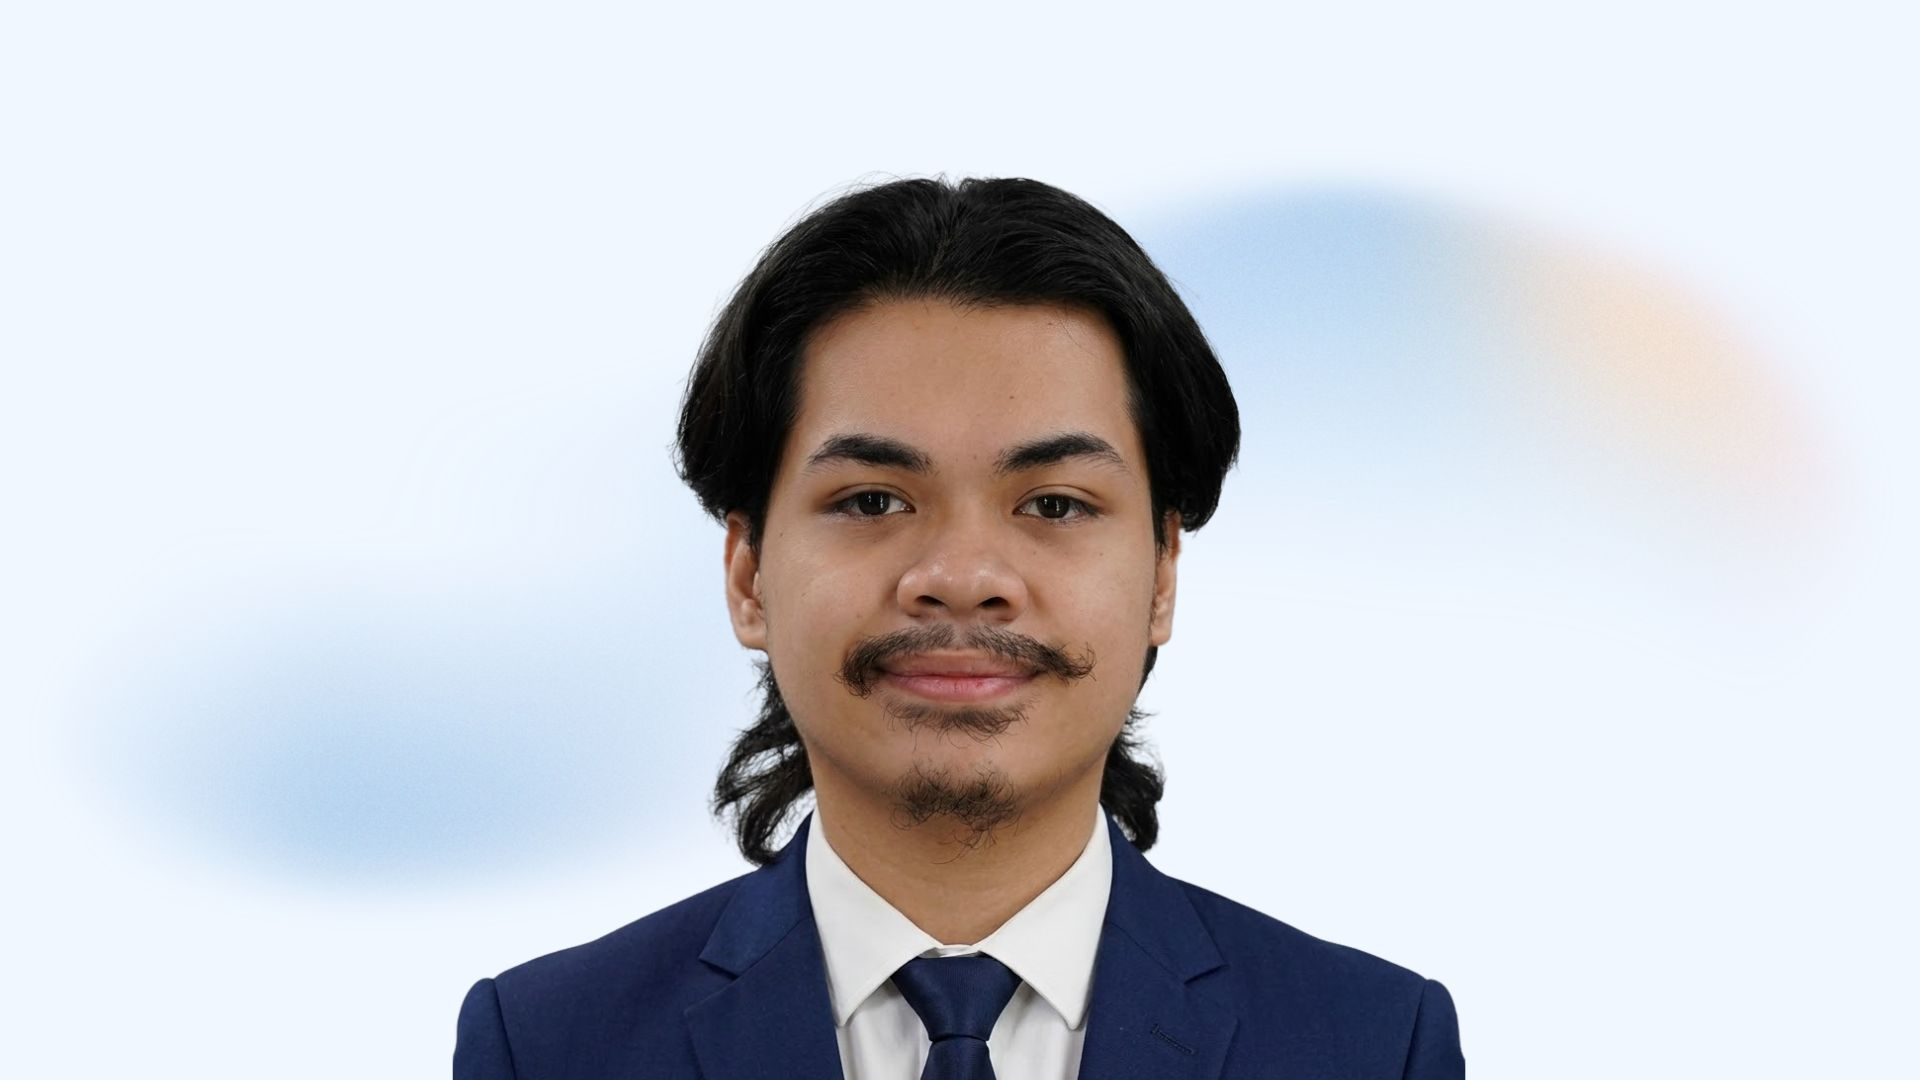
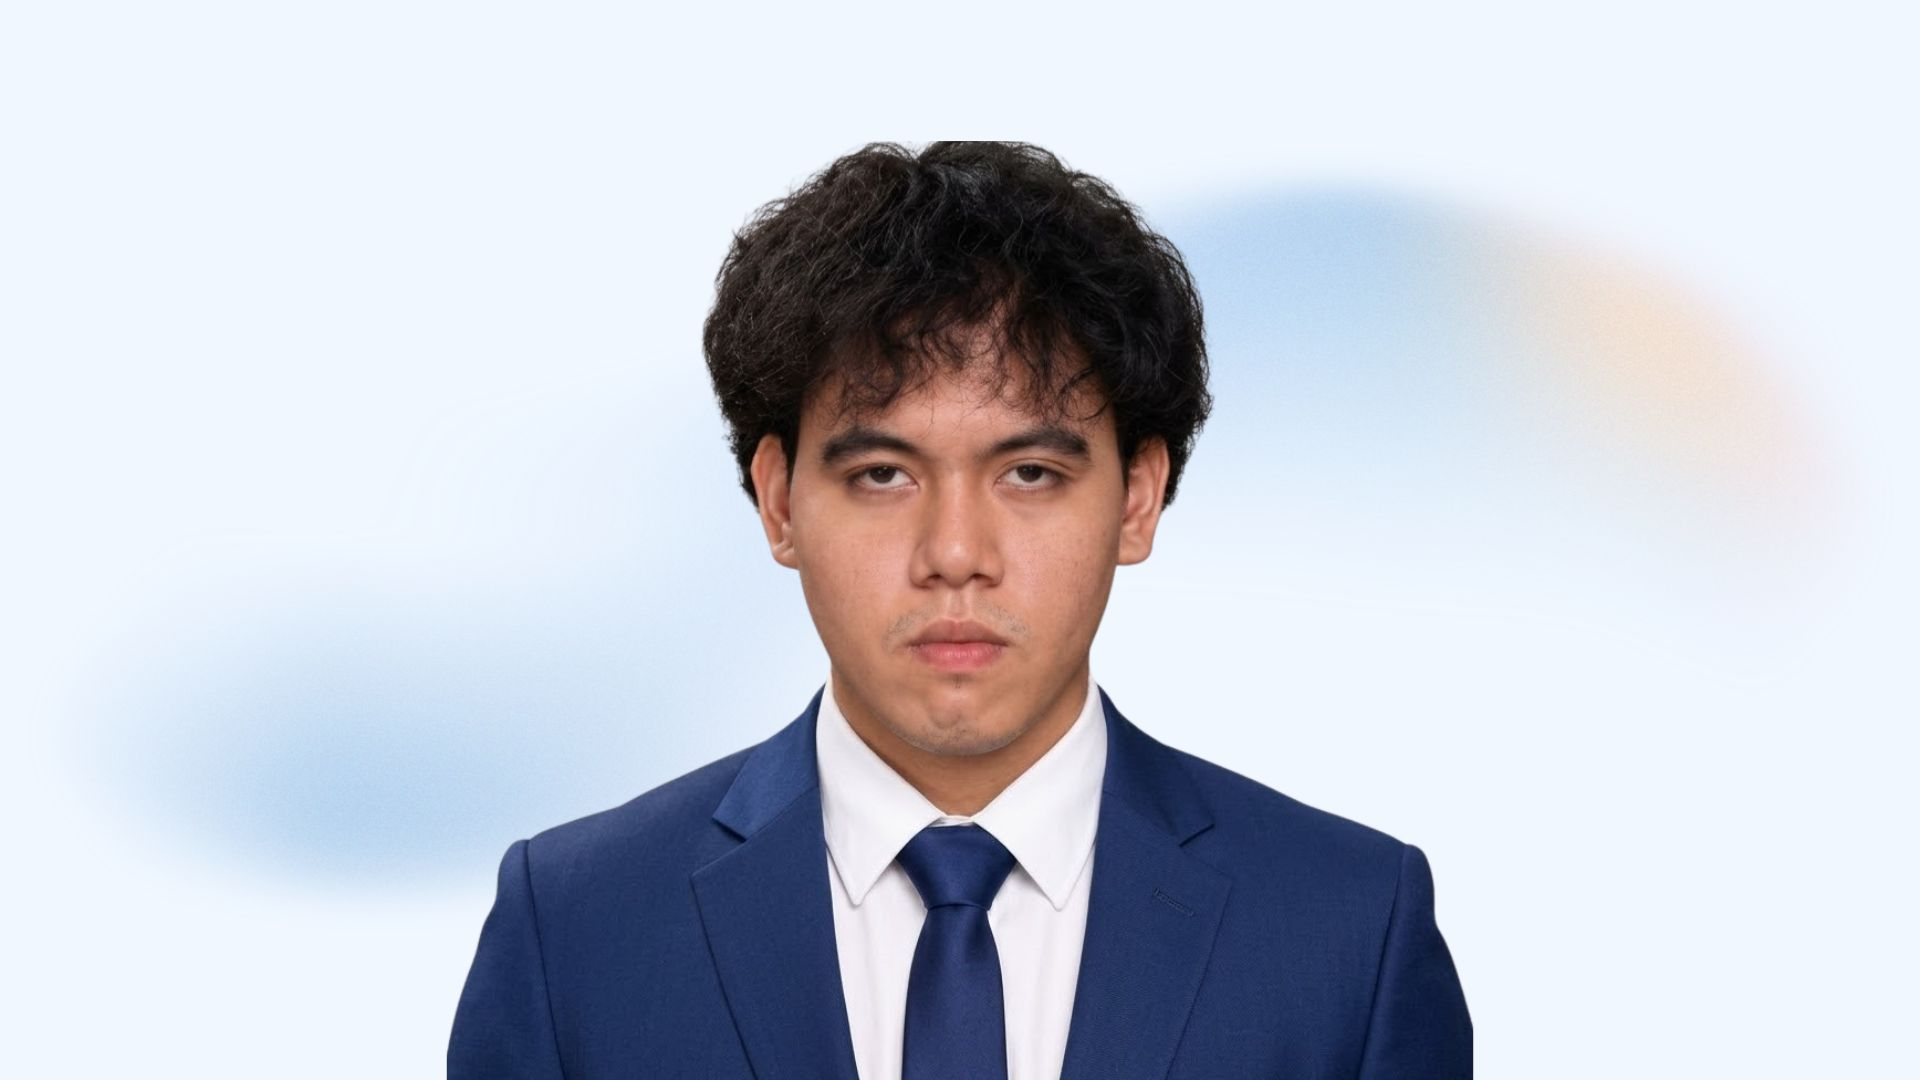
feat(landing): show product teams in production and add Vocation members

Changed region(s): [[0.2188, 0.1222, 0.7812, 1.0]]

diff --git a/src/components/landing/about/Team.tsx b/src/components/landing/about/Team.tsx
@@ -38,17 +38,36 @@ const productTeamConfig: Record<
 		site: "academy.iskolar.io",
 		members: [
 			{
-				name: "Mathew Angelo Balanlay",
+				name: "Geinel Dungao",
 				role: "Full Stack Developer",
 				image: "/team/Academy_Full-Stack-Developer.jpg",
-				link: "https://www.linkedin.com/in/mathew-angelo-balanlay-14b703357/",
+				link: "https://www.linkedin.com/in/geineldungao/",
 			},
 			tba,
 		],
 	},
 	vocation: {
 		site: "vocation.iskolar.io",
-		members: [tba, tba, tba],
+		members: [
+			{
+				name: "Alexandre Nevero",
+				role: "Product Manager",
+				image: "/team/Vocation_Product-Manager.jpg",
+				link: "https://www.linkedin.com/in/alexandre-andrei-nevero/",
+			},
+			{
+				name: "Jimuelle Patron",
+				role: "Backend Developer",
+				image: "/team/Vocation_Backend-Developer.jpg",
+				link: "https://www.linkedin.com/in/jimuellepatron/",
+			},
+			{
+				name: "Clarisse Salazar",
+				role: "Frontend Developer",
+				image: "/team/Vocation_Frontend-Developer.jpg",
+				link: "https://www.linkedin.com/in/clarisse-jem-salazar/",
+			},
+		],
 	},
 };
 
@@ -65,11 +84,6 @@ const productTeams = products
 			})),
 		};
 	});
-
-// Product teams still have placeholder seats, so the block is hidden unless
-// VITE_ENABLE_PRODUCT_TEAMS=true. Leave it unset/false on prod until the teams
-// are filled in.
-const showProductTeams = import.meta.env.VITE_ENABLE_PRODUCT_TEAMS === "true";
 
 // `image` and `link` are optional so a card can render as a placeholder
 // (generic avatar, no LinkedIn) until the member's details are available.
@@ -275,14 +289,14 @@ export default function TeamSection() {
 										/>
 									</MotionItem>
 
-									{/* <MotionItem className={cellClass}>
+									<MotionItem className={cellClass}>
 										<Card
-											image="/team/DevOps-Engineer.jpg"
-											name="Mathew Balanlay"
+											image="/team/Devops-Engineer.jpg"
+											name="Mathew Angelo Balanlay"
 											role="DevOps Engineer"
-											link="#"
+											link="https://www.linkedin.com/in/mathew-angelo-balanlay-14b703357/"
 										/>
-									</MotionItem> */}
+									</MotionItem>
 
 									<MotionItem className={cellClass}>
 										<Card
@@ -297,56 +311,52 @@ export default function TeamSection() {
 						</div>
 
 						{/* Product Teams */}
-						{showProductTeams && (
-							<div className="w-full flex flex-col items-center gap-12">
-								<div className="text-center">
-									<h3 className="text-3xl text-secondary mb-3">
-										Product Teams
-									</h3>
-									<p className="text-secondary/80 max-w-2xl mx-auto">
-										The people building each iSkolar product.
-									</p>
-								</div>
-
-								{productTeams.map(({ product, site, members }) => (
-									<div
-										key={product.id}
-										className="w-full max-w-6xl mx-auto grid gap-8 xl:grid-cols-[14rem_1fr] xl:items-center"
-									>
-										<div className="flex flex-col items-center gap-3 text-center">
-											<span className="flex h-20 w-20 items-center justify-center rounded-full bg-card shadow-[0_18px_40px_-20px_rgba(58,82,166,0.6)] ring-1 ring-secondary/10">
-												<img
-													src={product.logo}
-													alt=""
-													aria-hidden
-													decoding="async"
-													className="h-12 w-12 object-contain"
-												/>
-											</span>
-											<h4 className="text-2xl text-secondary">
-												{product.name} Team
-											</h4>
-											<a
-												href={`https://${site}`}
-												target="_blank"
-												rel="noopener noreferrer"
-												aria-label={`Visit ${product.name} at ${site}`}
-												className="text-sm text-secondary/80 underline underline-offset-4 transition-colors hover:text-secondary"
-											>
-												{site}
-											</a>
-										</div>
-										<div className="flex flex-wrap justify-center gap-8 w-full xl:grid xl:grid-cols-3">
-											{members.map(({ key, ...member }) => (
-												<MotionItem key={key} className={productCellClass}>
-													<Card {...member} />
-												</MotionItem>
-											))}
-										</div>
-									</div>
-								))}
+						<div className="w-full flex flex-col items-center gap-12">
+							<div className="text-center">
+								<h3 className="text-3xl text-secondary mb-3">Product Teams</h3>
+								<p className="text-secondary/80 max-w-2xl mx-auto">
+									The people building each iSkolar product.
+								</p>
 							</div>
-						)}
+
+							{productTeams.map(({ product, site, members }) => (
+								<div
+									key={product.id}
+									className="w-full max-w-6xl mx-auto grid gap-8 xl:grid-cols-[14rem_1fr] xl:items-center"
+								>
+									<div className="flex flex-col items-center gap-3 text-center">
+										<span className="flex h-20 w-20 items-center justify-center rounded-full bg-card shadow-[0_18px_40px_-20px_rgba(58,82,166,0.6)] ring-1 ring-secondary/10">
+											<img
+												src={product.logo}
+												alt=""
+												aria-hidden
+												decoding="async"
+												className="h-12 w-12 object-contain"
+											/>
+										</span>
+										<h4 className="text-2xl text-secondary">
+											{product.name} Team
+										</h4>
+										<a
+											href={`https://${site}`}
+											target="_blank"
+											rel="noopener noreferrer"
+											aria-label={`Visit ${product.name} at ${site}`}
+											className="text-sm text-secondary/80 underline underline-offset-4 transition-colors hover:text-secondary"
+										>
+											{site}
+										</a>
+									</div>
+									<div className="flex flex-wrap justify-center gap-8 w-full xl:grid xl:grid-cols-3">
+										{members.map(({ key, ...member }) => (
+											<MotionItem key={key} className={productCellClass}>
+												<Card {...member} />
+											</MotionItem>
+										))}
+									</div>
+								</div>
+							))}
+						</div>
 					</div>
 				</div>
 			</MotionContainer>

diff --git a/CLAUDE.md b/CLAUDE.md
@@ -83,7 +83,6 @@ VITE_ENABLE_LUMEN_CREDENTIALS=true
 - **VITE_ENABLE_LUMEN_CREDENTIALS** (true/false) — Controls visibility of student credentials section. Set to `false` to hide in test/staging environments.
 - **VITE_ENABLE_IDENTITY_VERIFICATION** (true/false) — Controls visibility of the Didit identity verification section on student and sponsor profiles. Set to `false` on prod until the feature is ready to launch.
 - **VITE_ENABLE_APPLICANT_RANKING** (true/false) — Controls visibility of the "Rank Applicants" button, ranking panel, and ranked results table on the sponsor applicants page. Set to `false` on prod until the feature is ready to launch.
-- **VITE_ENABLE_PRODUCT_TEAMS** (true/false) — Controls visibility of the "Product Teams" block (Academy, Vocation) in the About page Team section. Set to `false` on prod until the placeholder seats are filled in.
 
 ## Code Style
 
